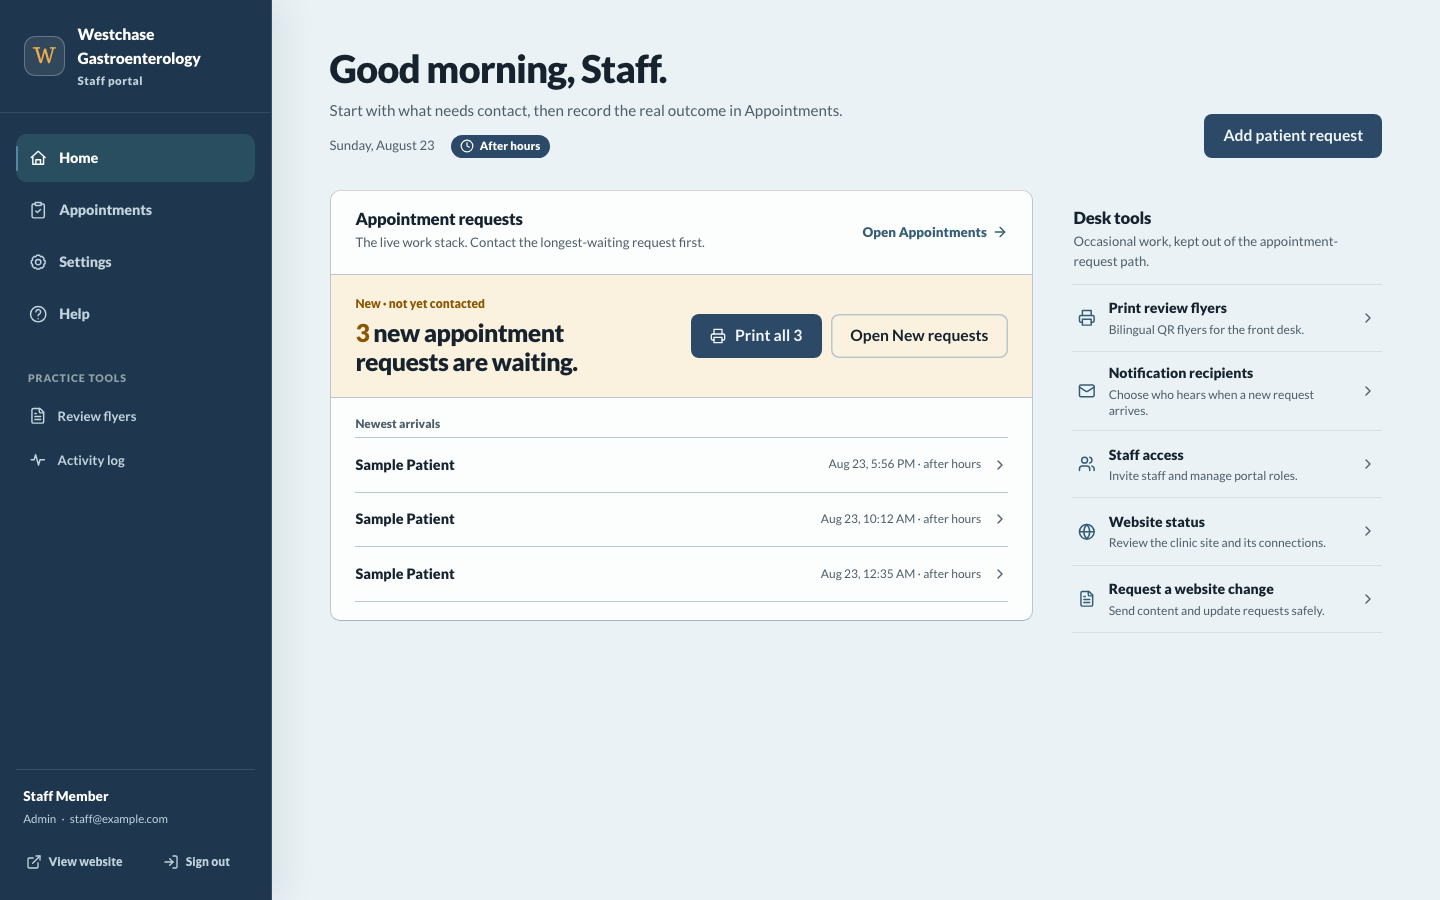
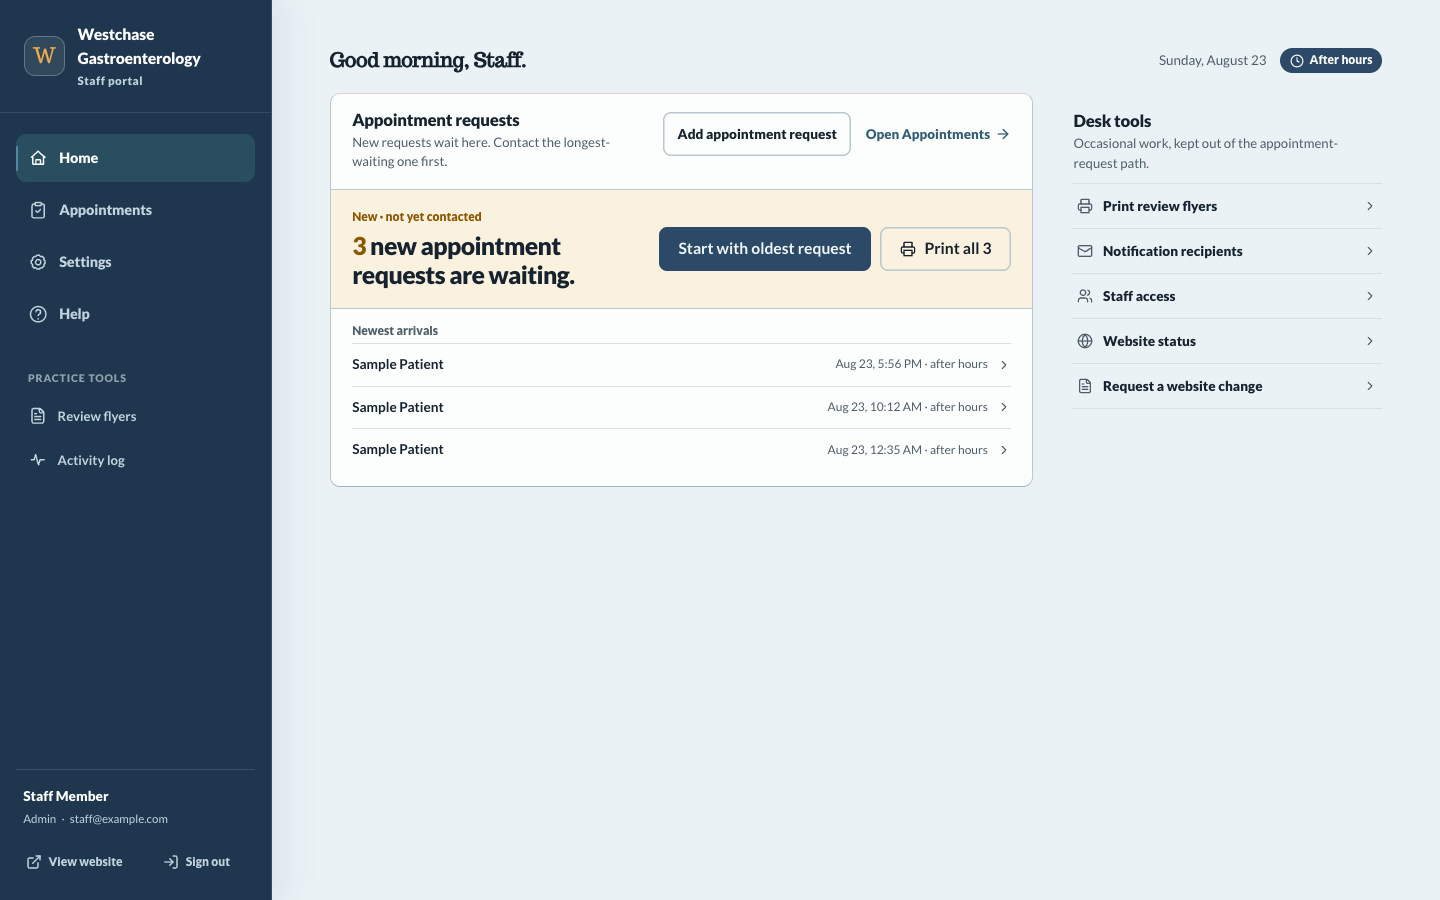
fix(portal): keep work-stack commands inside the card on narrow screens
Loop 1 placed the Appointment requests command row beside the heading at
max-content width. Below roughly 430px the row outran the card, and the
card's overflow: hidden cropped Open Appointments at the right edge.

Narrow screens now stack the header: heading and instruction first, then
a left-aligned wrapping command row, Add appointment request above Open
Appointments. Both stay 44px targets via the existing .portal-scope .btn
floor. At 48rem and up the scan row is restored unchanged: heading left,
commands right.

Home atlas images refreshed against the local seeded origin.

diff --git a/src/app/admin/portal-workbench.css b/src/app/admin/portal-workbench.css
@@ -648,11 +648,12 @@
     background: var(--portal-surface);
   }
 
+  /* Narrow screens stack the work surface's heading and commands; the
+     commands wrap inside the card's width so neither can be clipped. */
   .portal-work-stack-header {
     display: flex;
-    align-items: flex-start;
-    justify-content: space-between;
-    gap: 0.75rem 1.25rem;
+    flex-direction: column;
+    gap: 0.85rem;
     padding: 1.05rem 1.05rem;
   }
 
@@ -675,15 +676,14 @@
 
   /* The work surface's own command row: opening the ledger stays the
      frequent path, staff-authored intake sits beside the queue that gives
-     it context instead of floating in a detached page header. */
+     it context instead of floating in a detached page header. Wrapping is
+     the narrow-screen hierarchy: Add first, Open Appointments beneath it. */
   .portal-work-stack-commands {
     display: flex;
-    flex: none;
     flex-wrap: wrap;
     align-items: center;
-    justify-content: flex-end;
-    gap: 0.35rem 0.9rem;
-    padding-block-start: 0.1rem;
+    justify-content: flex-start;
+    gap: 0.5rem 0.9rem;
   }
 
   .portal-work-stack-header .portal-work-stack-add {
@@ -971,6 +971,21 @@
     .portal-arrivals,
     .portal-attention-next {
       padding-inline: 1.35rem;
+    }
+
+    /* Wide screens restore the scan row: heading left, commands right. */
+    .portal-work-stack-header {
+      flex-direction: row;
+      align-items: flex-start;
+      justify-content: space-between;
+      gap: 0.75rem 1.25rem;
+    }
+
+    .portal-work-stack-commands {
+      flex: none;
+      justify-content: flex-end;
+      gap: 0.35rem 0.9rem;
+      padding-block-start: 0.1rem;
     }
 
     .portal-operational-warning {

diff --git a/MEMORY.md b/MEMORY.md
@@ -1,5 +1,15 @@
 # Memory
 
+## 2026-08-23 21:30
+HEAD 103d21d
+Pre-existing finding, not fixed in the pi-candidate-1 loop-2 commit: `npm run ui:reference:portal`
+fails at `mobile-portal-audit at 320px` (351px content in a 320px viewport) on the current
+Preview Branch data. Stash-verified independent of the loop-2 CSS change; the audit page's
+`min-w-[640px]` table is not the direct cause, so find the 351px element before filing. Rams
+also flagged three advisory, surface-wide Home patterns for a future design-led pass: disabled
+`.btn` opacity 0.58, 0.82–0.86rem secondary type, and the `aria-hidden` amber attention dot
+(labels are text beside it, so state is not color-only in the DOM).
+
 ## 2026-08-16 22:27
 HEAD b9e8c58
 Visual-evidence gate is now a standing contribution-loop item: UI-visible PRs need before/after screenshots in the conversation; workflows need a video. #236 evidence is posted against the current restacked head.
